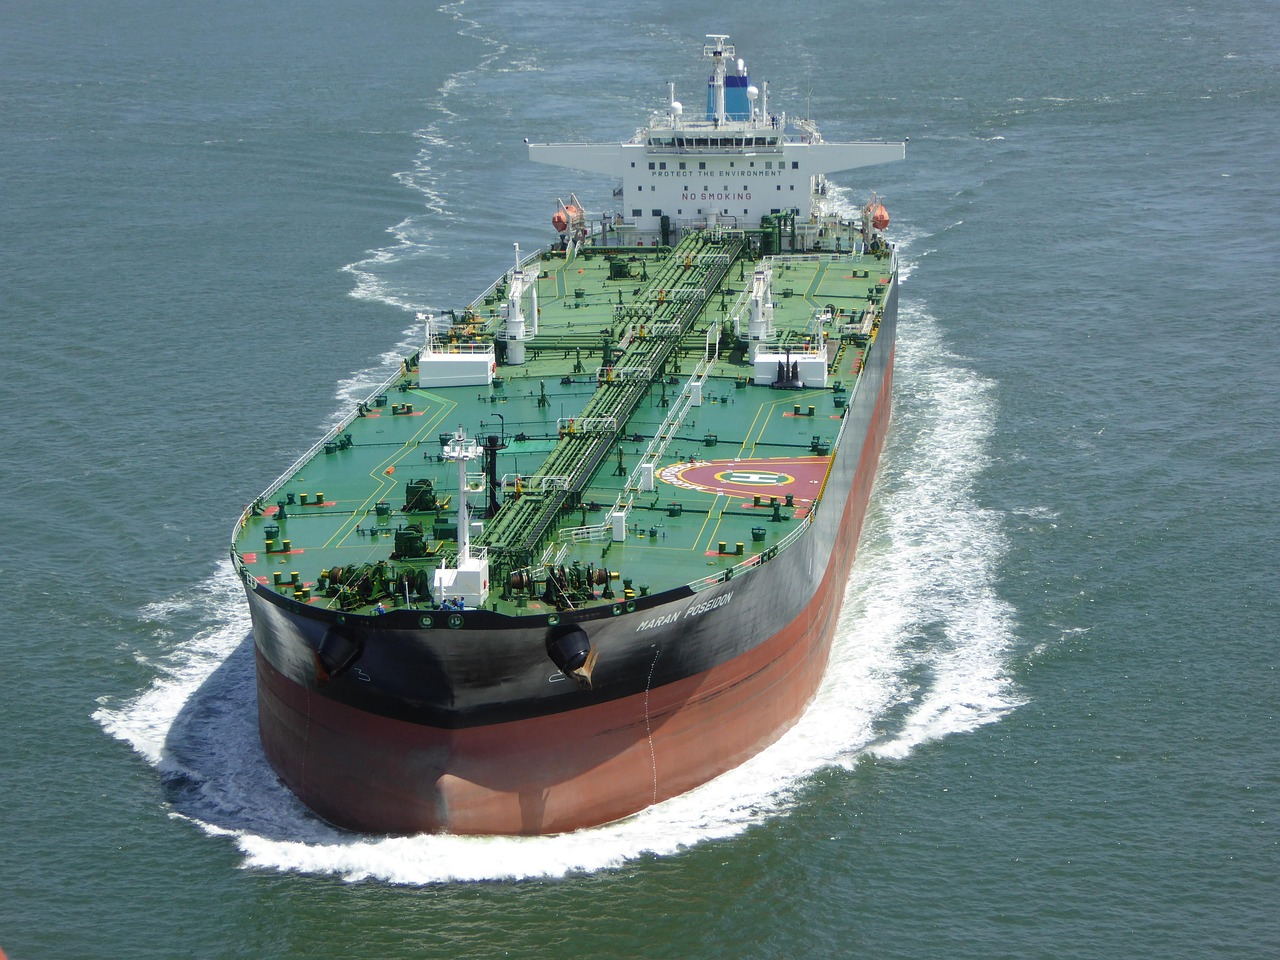
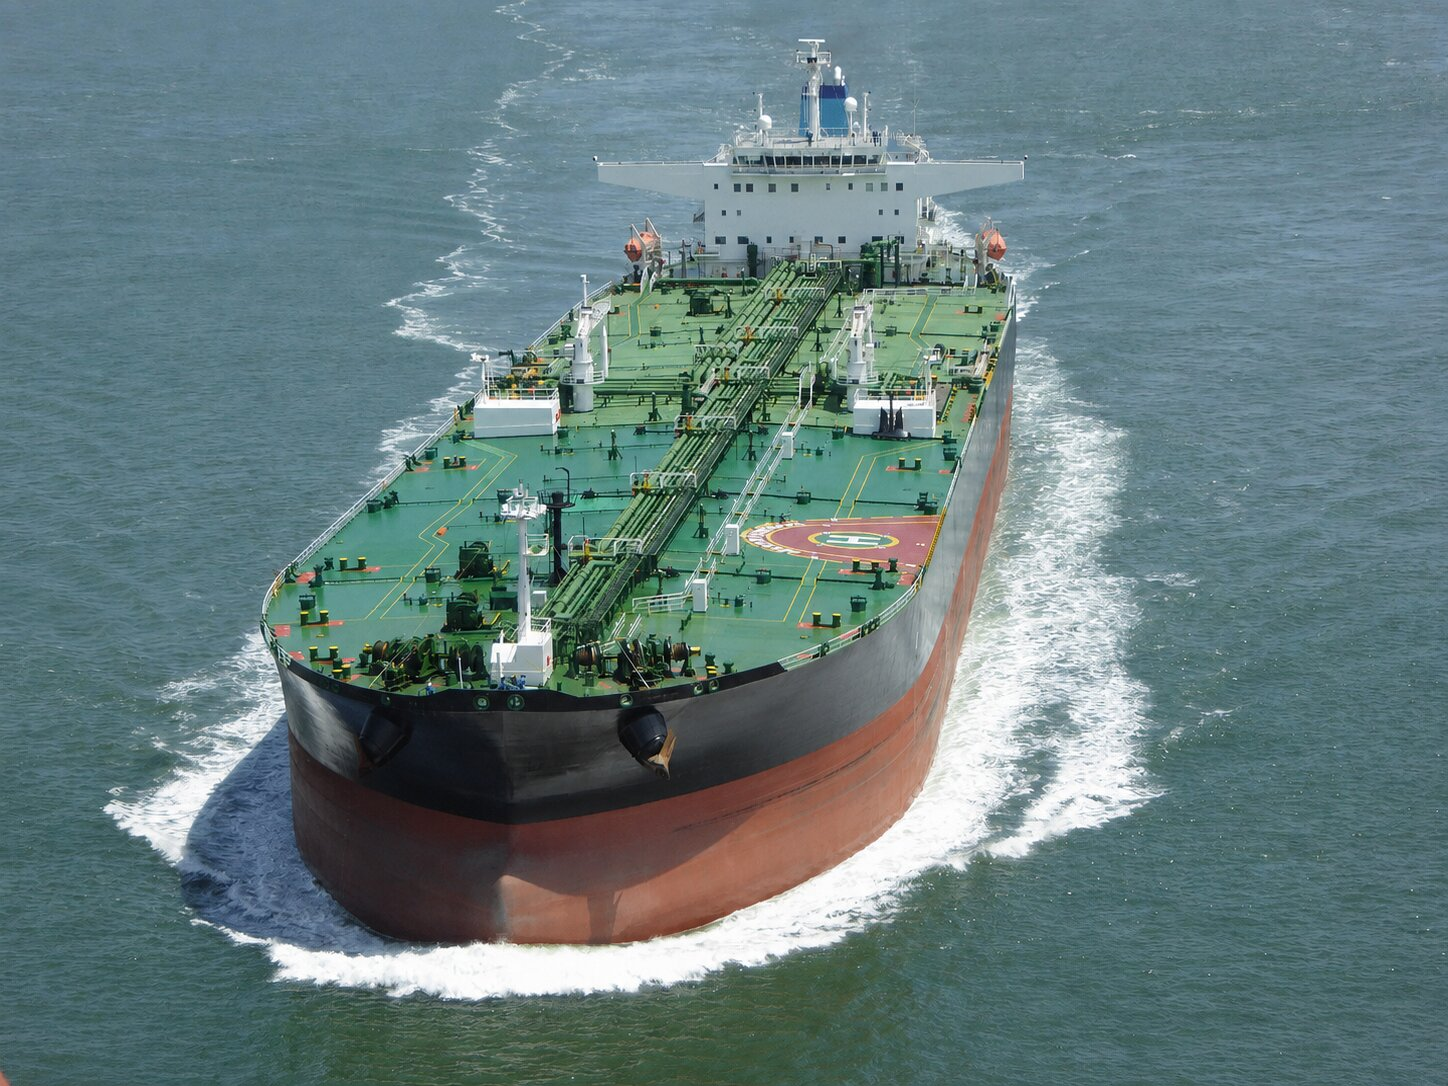
Replace photo

diff --git a/components/vision-section.tsx b/components/vision-section.tsx
@@ -42,7 +42,7 @@ export function VisionSection() {
               Vision & Mission
             </span>
             <h2 className="mt-4 text-balance font-heading text-3xl font-extrabold leading-tight md:text-4xl">
-              A clear bearing toward global excellence
+              A clear bearing towards global excellence
             </h2>
           </Reveal>
 